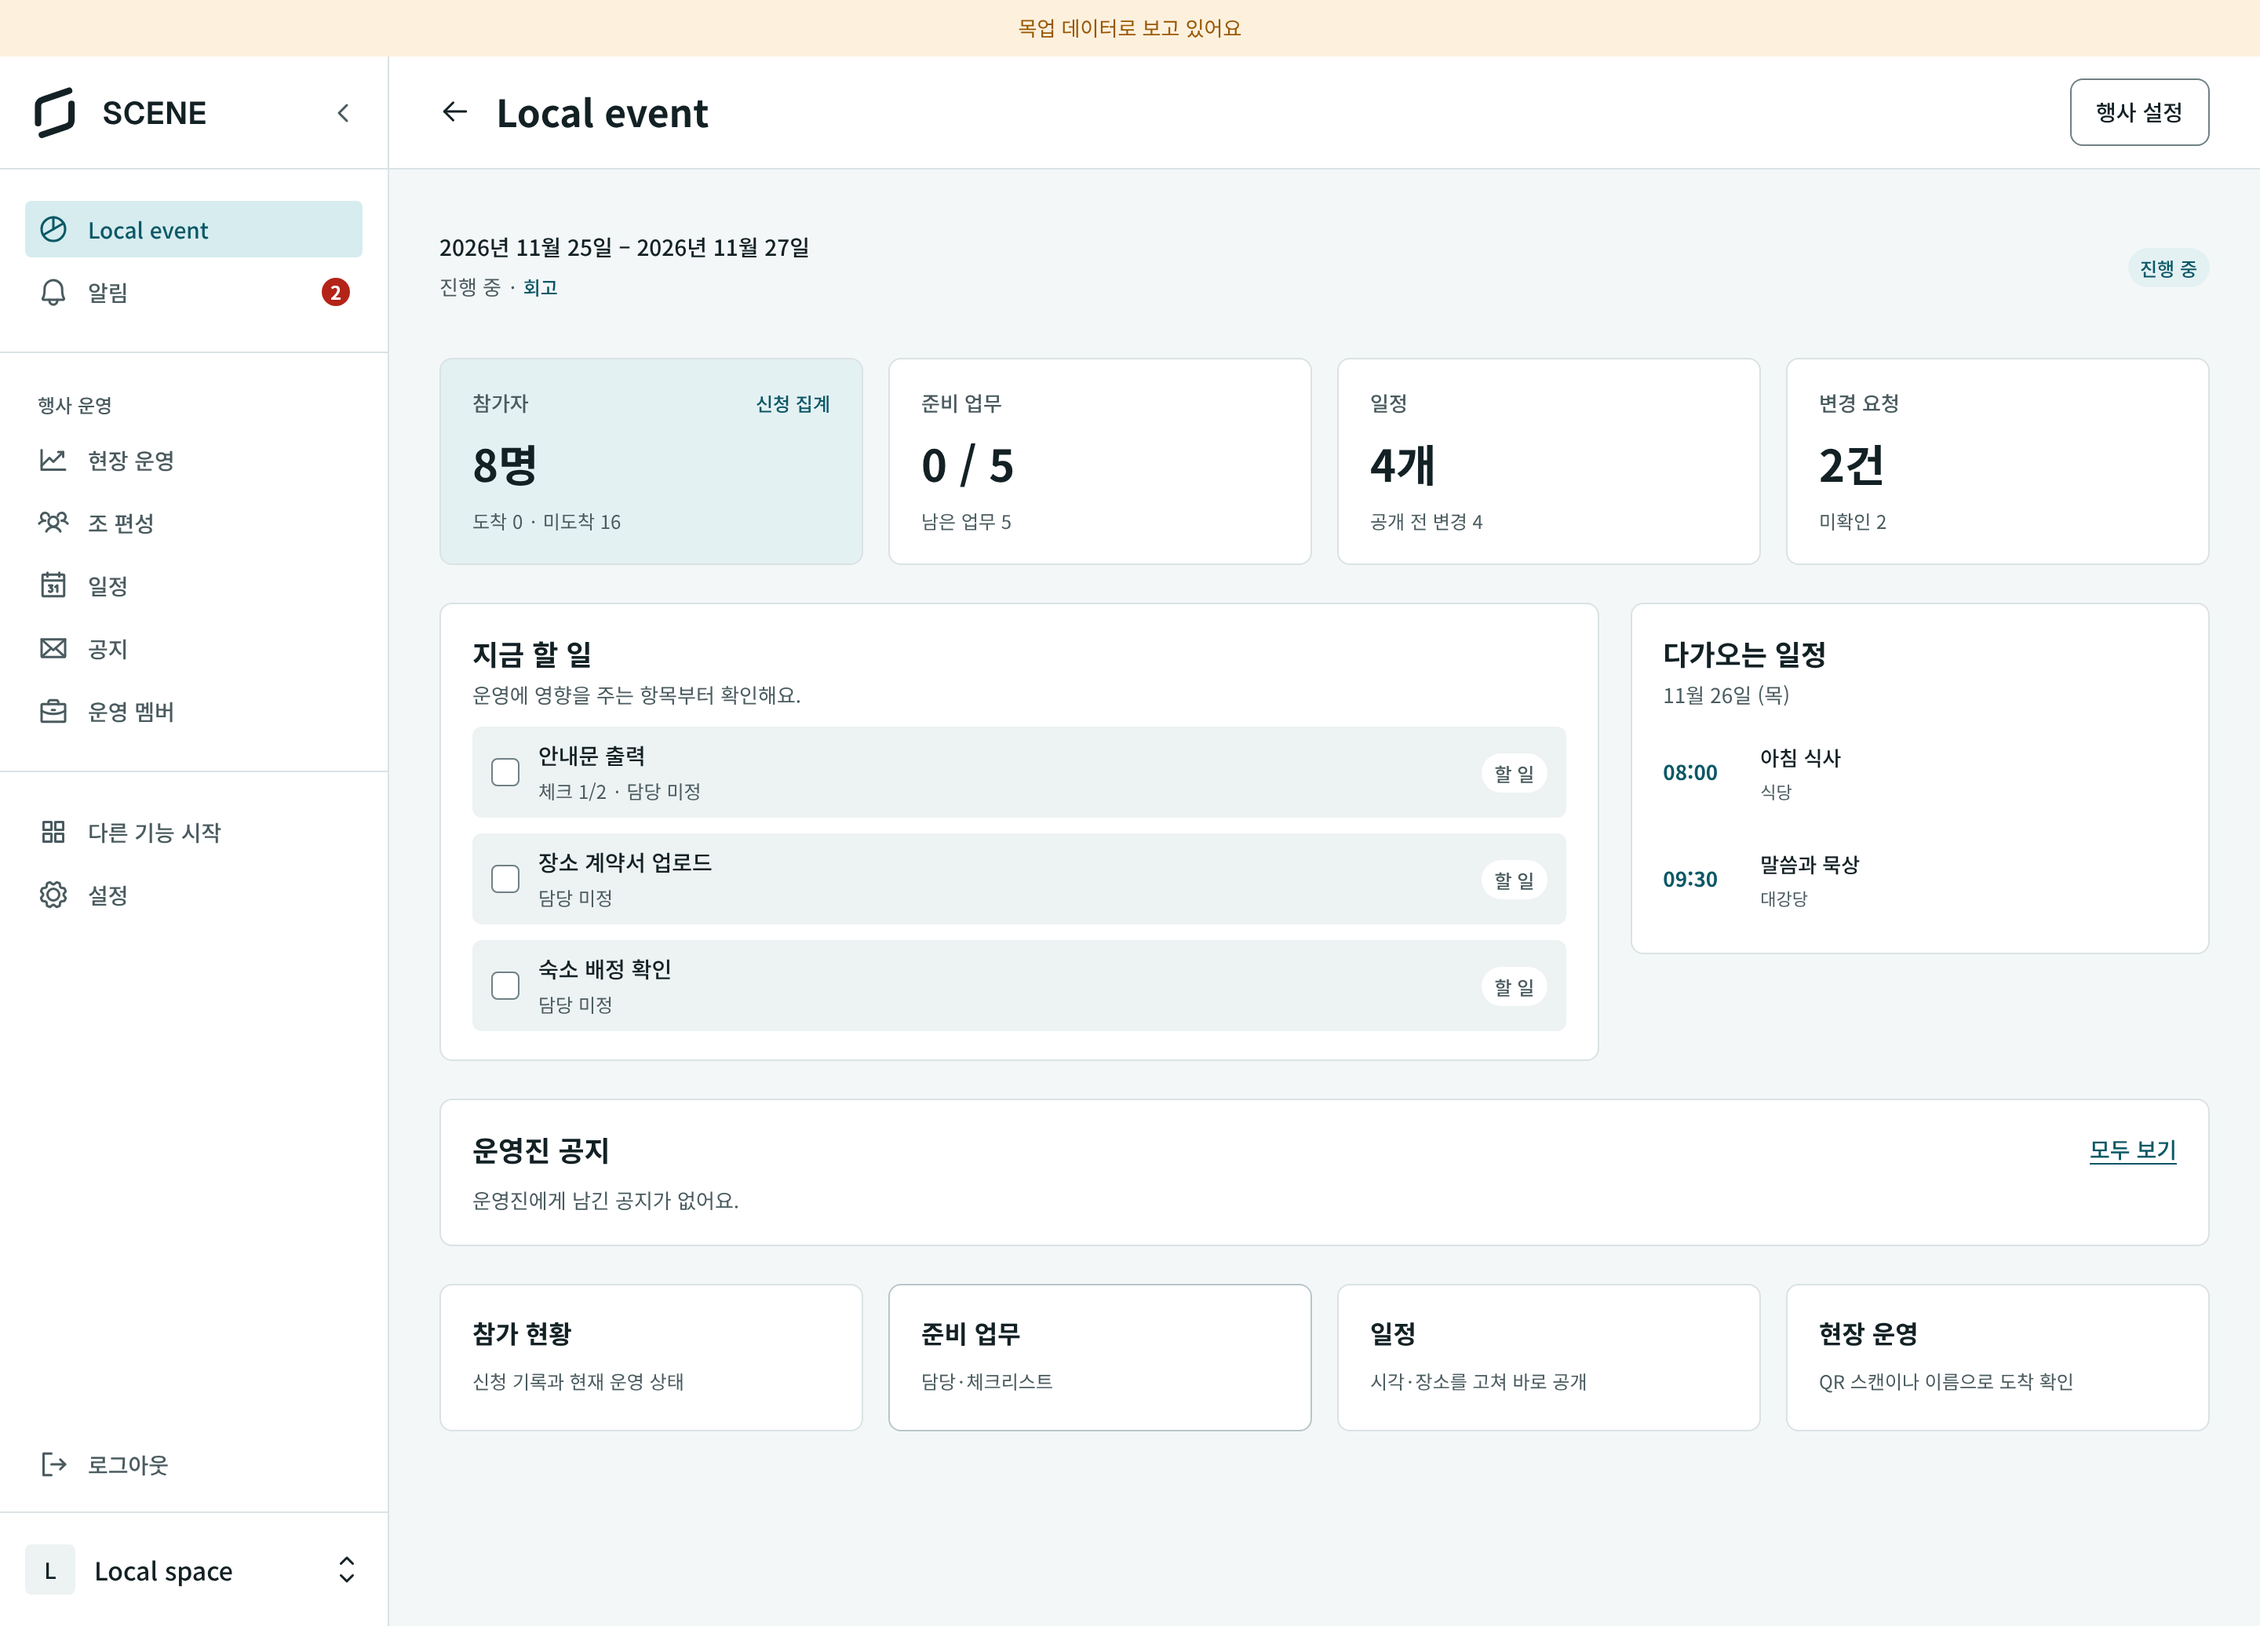
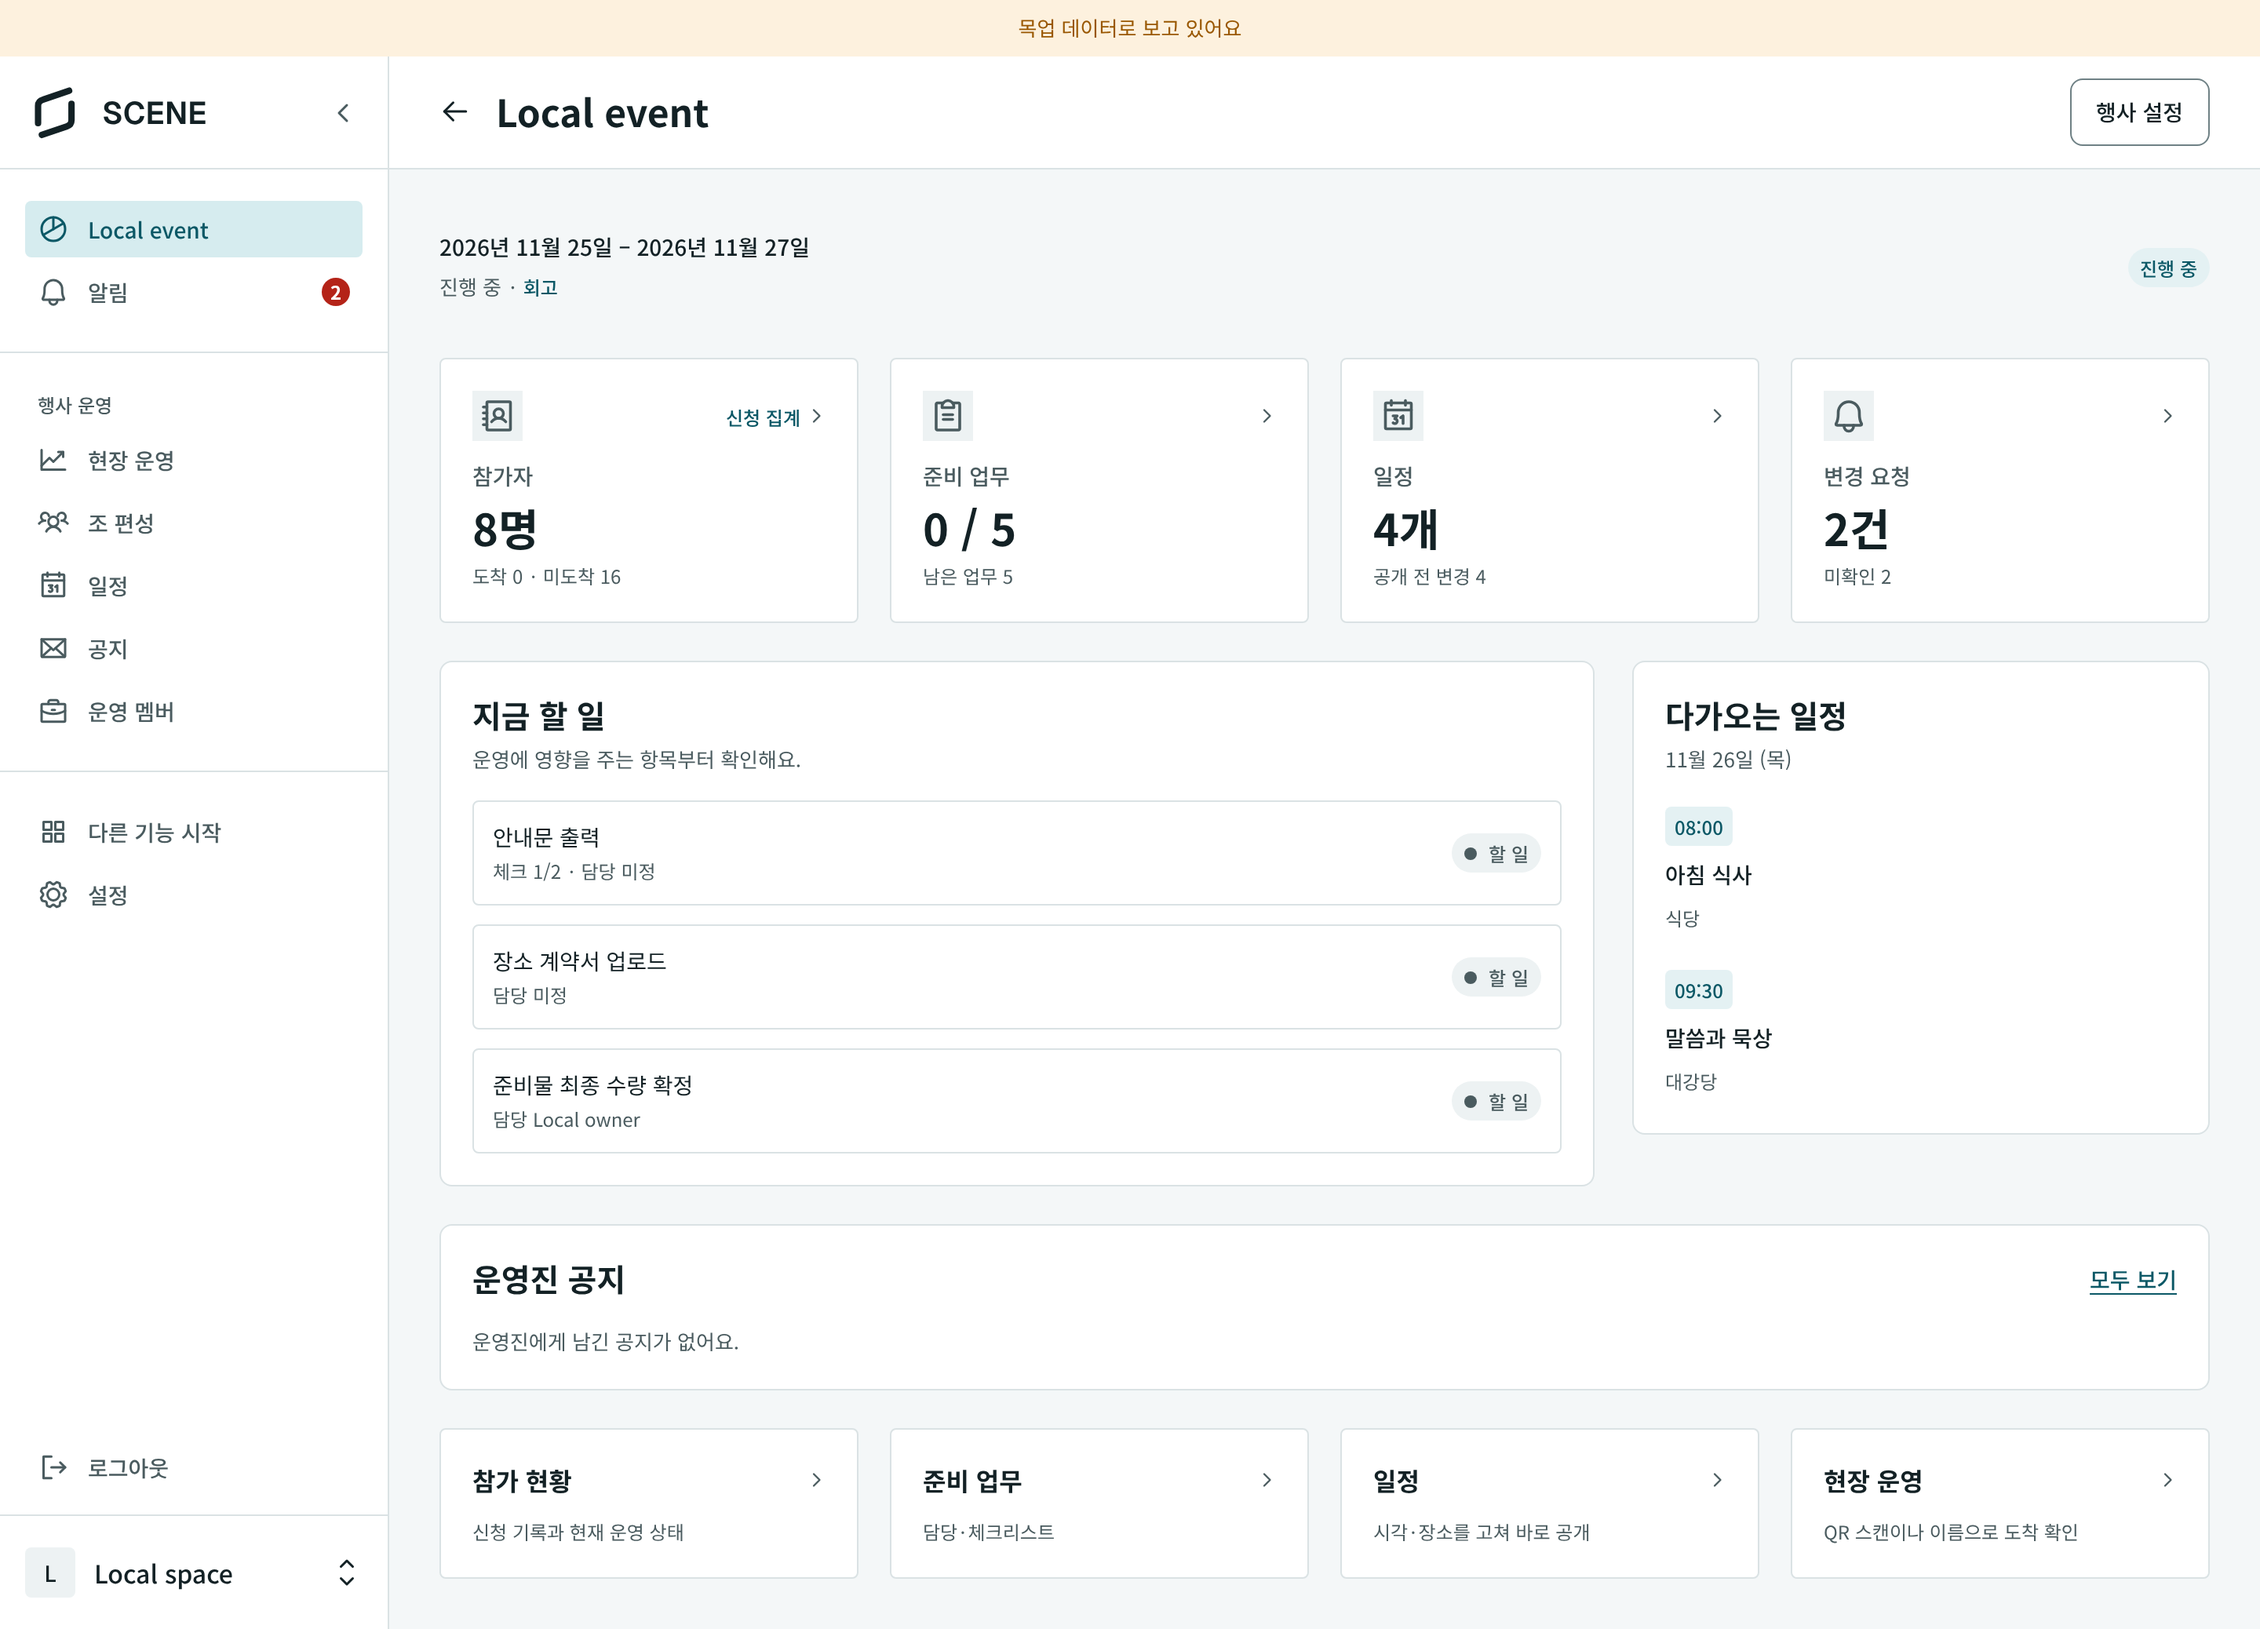
Venture 기준을 더한 행사 홈 스크린샷과 대조 기록을 갱신한다 (#467)
Claude-Session: https://claude.ai/code/session_019gxRj8g7BrvJKRYJKRKAgc

diff --git a/docs/test_results/467-event-home/README.md b/docs/test_results/467-event-home/README.md
@@ -1,6 +1,9 @@
 # #467 운영자 행사 홈 — Figma 「02 행사 홈 · v2.0 Candidate」 맞춤
 
-기준: Figma `RreFdEVMiwgHrV7teaCEOm` 46:18286(페이지 4:6, 사용자 지정). Figma MCP `get_design_context`로 직접 읽었다(`figma-46-18286.png`).
+기준(사용자 지정, Figma MCP `get_design_context`로 직접 읽음):
+- 화면 구조: SCENE `RreFdEVMiwgHrV7teaCEOm` 46:18286 「02 행사 홈 · v2.0 Candidate」(페이지 4:6) — `figma-46-18286.png`
+- 카드·패널·목록 행·배지 모양: 출처가 겹쳐 **Venture 우선**. Event Operation Platform Design System `2yztLB533ohOebuAKuwZr0` Design 28:217의 Dashboard 873:109446(통계 카드 539:33865, Upcoming Agenda 539:33910, Rows 652:38950) — `venture-dashboard-873-109446.png`, 같은 파일 사본인 SCENE 80. REFERENCES — VENTURE 41:16850의 Analytics (Activity) 14:2842(패널) — `venture-analytics-14-2842.png`
+- 참고만 함: SCENE Design System v0.1 Audit `ZFajaGIQ3VneNqkncKYXbJ` 144:2 VENTURE HARVEST. Dashboard 전체는 KPI·차트 편향으로 DROP, "Upcoming Agenda 같은 작은 정보 그룹"만 쓸 만하다는 판정을 따라 차트는 넣지 않았다. 172:2, 173:8060, 65:25, 50:17, 33:28은 시간 관계상 열어 보지 않았다.
 
 ## 검증 구분
 | 구분 | 결과 |
@@ -16,15 +19,20 @@
 - `after-draft-empty-1440.png`, `after-draft-empty-390.png`: 새로 만든 행사(목업 기본 업무 1개 외 데이터 없음)
 
 ## Figma와 맞춘 부분
-- 맥락 줄(날짜·장소 / 상태 + 상태 배지), 요약 카드 4개(첫 카드 brand-subtle, radius 8, padding 18/20, gap 16), 2단(지금 할 일 2fr / 다가오는 일정 1fr, gap 20, 58px 행), 바로가기 카드 4개, 본문 padding 28/32, 섹션 gap 24.
-- 글자: 카드 라벨 13 medium → `--scene-body-s` + 500, 숫자 26 bold → `--scene-display`, 보조 12 → `--scene-caption-m`, 패널 제목 18 bold → `--scene-heading-s`, 행 제목 14 medium → `--scene-label-m`, 일정 시각 13 bold → `--scene-body-s-strong`(brand), 장소 11 → `--scene-caption-s`, 바로가기 제목 15 bold → `--scene-title`.
-- 색은 모두 `var(--color-*)` 토큰(본문 배경 canvas, 카드 surface, 행 subtle).
+- 46:18286에서: 맥락 줄(날짜·장소 / 상태 + 상태 배지) → 요약 카드 4개 → 2단(지금 할 일 2fr / 다가오는 일정 1fr) → 바로가기 4개 순서, 본문 padding 28/32, 섹션 gap 24, 카드에 보조 줄.
+- Venture 통계 카드 539:33865: radius 4, padding 20, gap 12, 위 줄 아이콘 칸(32px, bg-subtle, 아이콘 24px) + 오른쪽 꺾쇠 12px, 라벨 14 medium → `--scene-label-m`, 숫자 28 → `--scene-display`. 카드 사이 20. 바로가기도 같은 카드(제목 + 꺾쇠).
+- Venture 패널(Analytics 14:2842): radius 8, padding 20, gap 16, 제목 20 → `--scene-heading-m`, 패널 사이 24.
+- Venture Rows 652:38950: 흰 행, 1px 테두리, radius 4, padding 12, 행 사이 12, 본문 14 → `--scene-body-m`. 상태 배지는 pill(padding 4/8, 8px 점, 12 medium → `--scene-label-s`). 지금 할 일·운영진 공지 행에 같이 적용.
+- Venture Upcoming Agenda 539:33910: 시각 배지(radius 4, padding 4/6, 12 medium) → 제목 14 medium(`--scene-label-m`) → 장소 12(`--scene-caption-m`), 항목 사이 16.
+- 아이콘은 Figma 자산을 내려받지 않고 저장소의 같은 아이콘(`assets/event-nav/` address·clipboard·calendar·bell·caret)을 다시 썼다.
+- 색은 모두 `var(--color-*)` 토큰(본문 배경 canvas, 카드·패널 surface, 아이콘 칸 subtle, 시각 배지 brand-subtle).
 
 ## 다르게 둔 부분과 이유
 - 변경 요청 카드: 대응 기능이 없어 운영자 알림의 신청 변경(`APPLICATION_REVISED`·`RESUBMITTED`·`CANCELLED`, 최근 30개)으로 대신했다. 숫자는 건수, 보조는 "미확인 N".
 - 참가자 카드: 신청 집계로 열리므로 오른쪽 위에 "신청 집계"를 더했다(Figma에 없음). 보조 줄은 진행 중이면 체크인 "도착·미도착", 아니면 참석 방식(전체·부분·집회만). Figma의 "예정·취소"는 신청 집계가 제출된 신청만 세서 낼 수 없다.
 - 준비 업무: 기한 데이터가 없어 "마감 임박" 대신 "진행 중 N" 또는 "남은 업무 N". 일정: 담당 데이터가 없어 "공개 전 변경 N"/"모두 공개됨".
-- 지금 할 일 체크 상자는 표시만 한다(누르면 업무 상세로 이동). 완료 처리는 체크리스트 조건이 있어 상세 화면에서 한다.
+- 46:18286의 첫 카드 brand-subtle 배경, 행 안 체크 상자, subtle 배경 행은 Venture를 우선해 흰 카드·테두리 행으로 바꿨다(체크 상자는 누를 수 없는 표시라 뺐다). 행을 누르면 업무 상세로 간다.
+- 목록 행 테두리는 Venture처럼 `border/default`로 두었다. 핸드오프 §2는 테두리만 있는 눌리는 요소에 `border/control`을 권하므로, 다크 모드 대비가 문제되면 바꿔야 한다(기존 공지 행도 `border/default`).
 - 운영진 공지(DEC-082 §5)는 Figma에 자리가 없어 2단 아래에 같은 패널 스타일로 두었다. "공지 전체" → "모두 보기", 글자 `--scene-label-m`. 공지 화면의 `.notices__link`(휴대폰용 큰 글자)는 그대로 두었다.
 - 종료·보관 행사는 지금 할 일·다가오는 일정 대신 종료 안내와 회고 버튼을 둔다. 현장 운영 바로가기는 ACTIVE일 때만.
 - 상단 두 번째 배지("확인 필요 2")는 대응 데이터가 없어 넣지 않았다.
